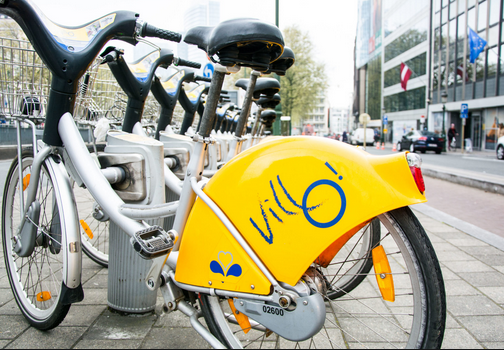
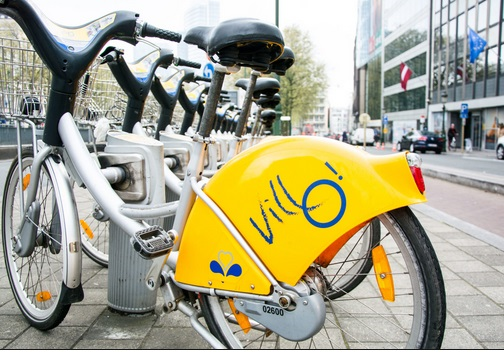
Nikola auto commit.
Source commit: dc06df6c9201f02b6f6ddc4700d9f7dd75468c98
Nikola version: 8.0.1

diff --git a/posts/bikeshare part3/index.html b/posts/bikeshare part3/index.html
@@ -90,7 +90,7 @@ We w">
 <li>Since trees and ensembles have many hyperparameters, in this notebook we try to explain some good practice regarding the usage of these hyperparameter</li>
 <li>Also we will implement Grid Search in order to tune these hyperparameters</li>
 </ul>
-<p><img src="../../image/villo.jpg" alt="villo"></p>
+<p><img src="../../image/villo.png" alt="villo"></p>
 
 </div>
 </div>

diff --git a/index.html b/index.html
@@ -60,7 +60,7 @@
 <li>Since trees and ensembles have many hyperparameters, in this notebook we try to explain some good practice regarding the usage of these hyperparameter</li>
 <li>Also we will implement Grid Search in order to tune these hyperparameters</li>
 </ul>
-<p><img src="image/villo.jpg" alt="villo"></p>
+<p><img src="image/villo.png" alt="villo"></p>
 
 </div>
 </div>
